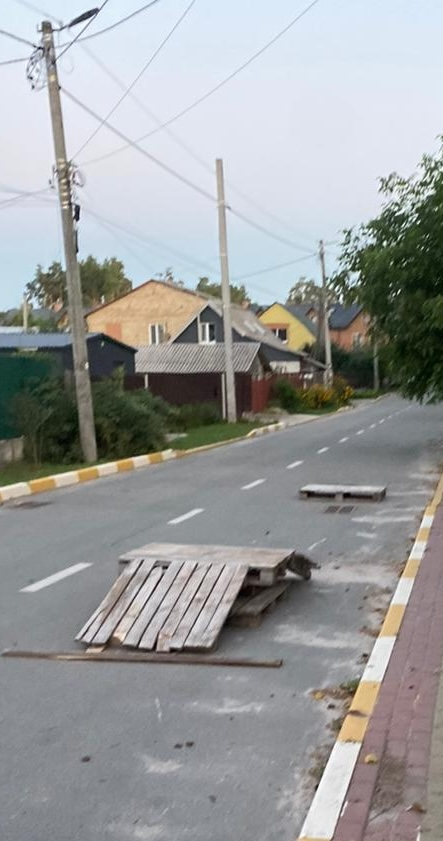
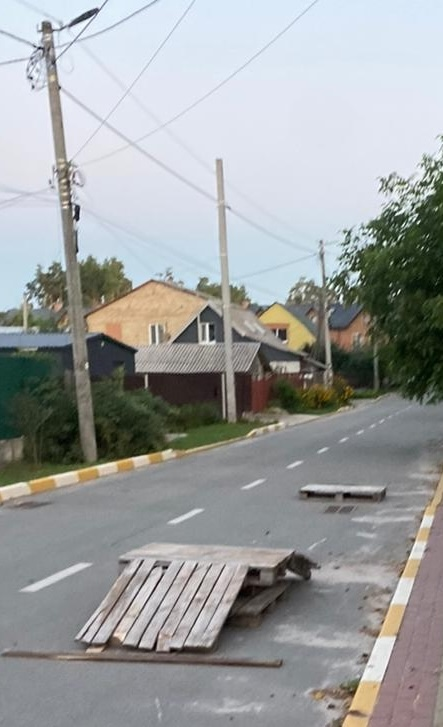
retour, buttons article page

diff --git a/themes/article/mariia.css b/themes/article/mariia.css
@@ -48,7 +48,7 @@ article img[alt="pop"] {
     top: 0;
     left: 0;
     width: 40vw;
-    height: 100vh;
+    height: 110vh;
     object-fit: cover;
     z-index: -1;
     opacity: 50%;
@@ -88,8 +88,7 @@ max-width: 50%;
     color: #0259db;
      text-align: right;
      max-width: 100%;
-    width: 100%;
-     /* Щоб він був зверху, але під rock (якщо rock semi-transparent) */
+    width: 100%;  /* Щоб він був зверху, але під rock (якщо rock semi-transparent) */
     position: absolute;
     top: 0%;       /* від верхнього краю сторінки */
     right: 0;     /* від правого краю */
@@ -114,8 +113,8 @@ article img[alt="street"] {
     position: fixed;
     top: 0;
     left: 0;
-    width: 40vw;
-    height: 100vh;
+    width: 35vw;
+    height: 110vh;
     object-fit: cover;
     z-index: -1;
     opacity: 80%;
@@ -129,7 +128,7 @@ body::before {
     top: -10px;           /* відступ зверху */
     left: 0;
     width: 100%;
-    height: 50px;        /* висота блоку, приблизно як висота тексту */
+    height: 35px;        /* висота блоку, приблизно як висота тексту */
     background: rgba(255, 255, 255); /* напівпрозорий білий */
     z-index: 40;       
     pointer-events: none;
@@ -139,14 +138,29 @@ body::before {
 a[href="index.php"],
 fieldset#themes {
     position: absolute;
-    top: 0px;
-    z-index: 50;         /* поверх фонового блоку */
+     top: 0px;           
+    left: 17px;  
+    z-index: 100;    
 }
+
+a[href="index.php"] {
+    display: inline-block;
+    padding: 1px 10px;        /* space inside */
+    background: #0259db; /* semi-transparent stylish background */
+    color: #fff;              /* white text */
+    text-decoration: none;    /* remove underline */
+    border-radius: 1px; 
+      font-family: 'PRMT'; 
+      font-size: 12px;
+    transition: all 0.3s ease; /* smooth hover effect */
+}
+
+
 
 /* Container for the theme selector */
 #themes {
     position: absolute;
-    top: 8px;
+    top: 2px;
     z-index: 50;
     display: flex;        
     align-items: right;
@@ -166,14 +180,14 @@ fieldset#themes {
 /* Each radio+label pair */
 #themes > div {
     display: inline-flex;   
-    align-items: right;
+    align-items: left;
     gap: 0px; /* distance between names and their buttons */
 }
 
 
 #themes label {
     display: inline-block;
-    padding: 5px 6px;
+    padding: 2px 9px;
     border-radius: 6px;
     cursor: pointer;
     font-size: 13px;
@@ -182,9 +196,40 @@ fieldset#themes {
 
 
 #themes input[type="radio"]:checked + label {
+    opacity: 1;
     background: #0259db;
     color: white;
 }
+
+
+/* Default — all labels slightly faded */
+#themes label {
+    opacity: 0.35;
+    transition: opacity 0.3s;
+}
+
+/* Hover — brighten slightly */
+#themes label:hover {
+    opacity: 0.65;
+}
+/* circles */
+#themes input[type="radio"] {
+    appearance: none;
+    -webkit-appearance: none;
+    width: 7px;
+    height: 7px;
+    border: 1px solid #889de8;
+    border-radius: 50%;
+    background: transparent;
+    cursor: pointer;
+    margin-right: 3px; /* small space before label */
+    transition: 0.25s ease;
+    position: relative;
+    top: 0px; /* align vertically with label */
+   
+}
+
+
 
 
 
@@ -275,6 +320,7 @@ article img[alt="real"] {
     background: rgba(244, 244, 244, 0.6); 
     backdrop-filter: blur(4px);      /* gives nice minimalistic glass effect */
 }
+
 .note {
     font-size: 15px;      /* або інший шрифт */
     font-weight: 60;
@@ -293,12 +339,52 @@ article img[alt="cherry"] {
 
 
 article img[alt="kitty"] {
-   filter: grayscale(100%);
+   filter: grayscale(80%);
     position: absolute;
     top: 205px;            /* distance from the top – adjust */
-    left: 597px;            /* distance from left edge */
-    width: 20vw;  
+    left: 530px;            /* distance from left edge */
+    width: 15vw;  
     object-fit: cover;
     z-index: 1;
     opacity: 80%;
 }
+
+
+
+article img[alt="message"] {
+    filter: grayscale(80%);
+    position: absolute;
+    top: 845px;            /* distance from the top – adjust */
+    right: 20px;         /* distance from left edge */
+    width: 10vw;  
+    object-fit: cover;
+    z-index: 1;
+    opacity: 80%;
+}
+article img[alt="message2"] {
+    filter: grayscale(80%);
+    position: absolute;
+    top: 745px;            /* distance from the top – adjust */
+    left: 655px;            /* distance from left edge */
+    width: 10vw;  
+    object-fit: cover;
+    z-index: 1;
+    opacity: 80%;
+}
+article img[alt="message3"] {
+    filter: grayscale(80%);
+    position: absolute;
+    top: 445px;            /* distance from the top – adjust */
+    left: 545px;            /* distance from left edge */
+    width: 10vw;  
+    object-fit: cover;
+    z-index: 1;
+    opacity: 80%;
+}
+
+
+
+
+
+
+

diff --git a/articles/mariia/soir.md b/articles/mariia/soir.md
@@ -6,7 +6,9 @@ tags: guerre
 ---
 ![street](images/street.jpg)
 ![kitty](images/kitty.jpg)
-
+![message](images/message.jpg)
+![message2](images/message2.jpg)
+![message3](images/message3.jpg)
 ** Un soir d’été, chaud. ** <br>
 Très loin, on entend le bruit des voitures.<br>
  Dans la rue, les enfants du voisinage courent et jouent.<br>
